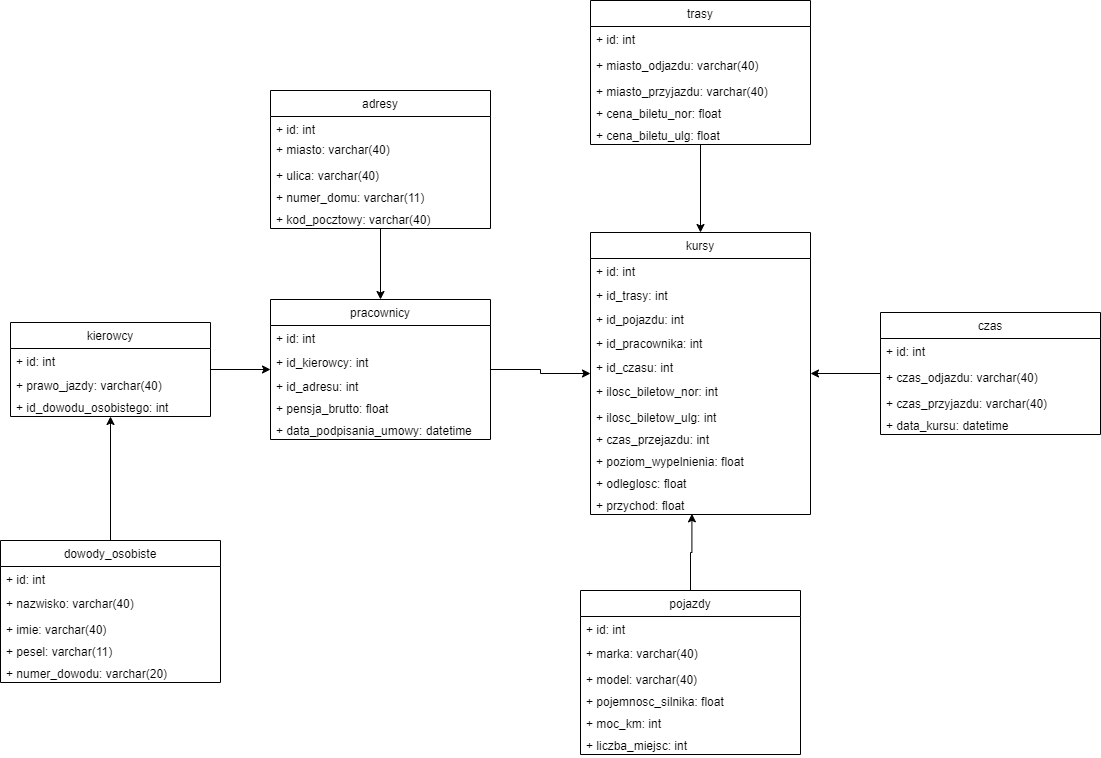
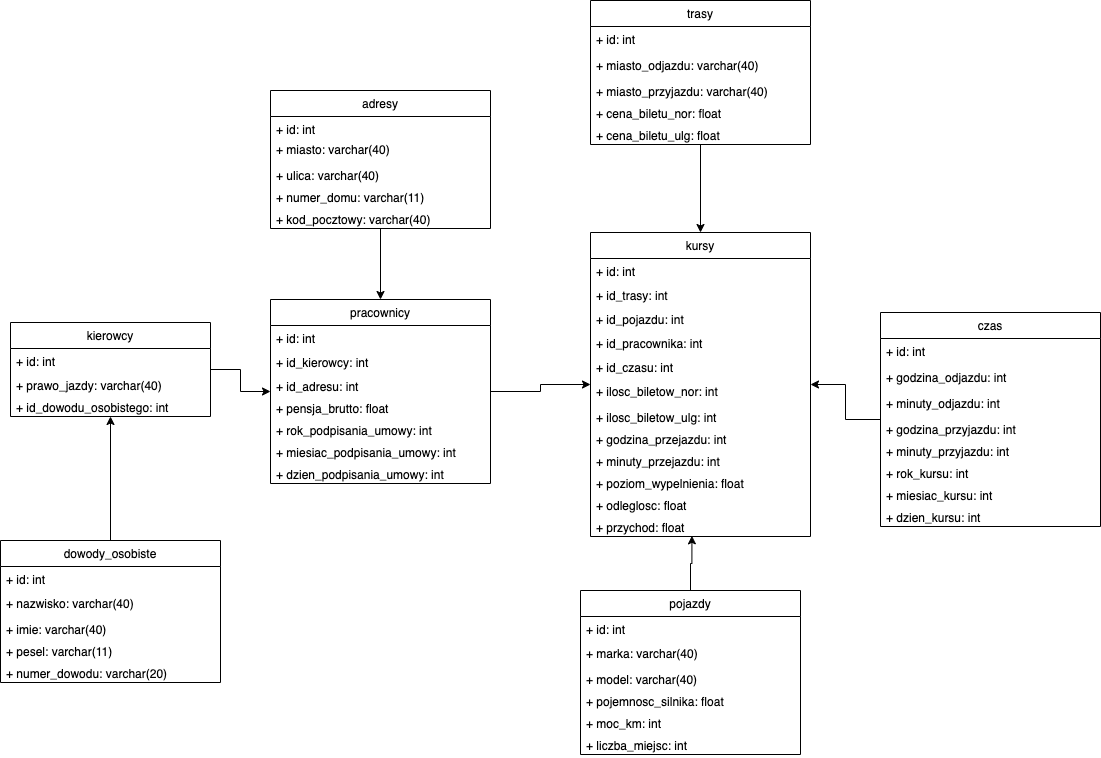
update

diff --git a/new/project/generator/src/models/courses.generate.js b/new/project/generator/src/models/courses.generate.js
@@ -16,19 +16,20 @@ const generateRandomCourses = async (count, roads, cars, employees, times) => {
         const fillLevel = (countAdultTicket + countNormalTicker) / car.countPlace;
         ////////////
         const time = times[getRandIntNumberFromRange(0, times.length)];
-        const start = moment.utc(time.timeStart, 'HH:mm'); // NOT
-        const end = moment.utc(time.timeEnd, 'HH:mm'); // NOT
-        if (end.isBefore(start)) end.add(1, 'day'); // NOT
-        const d = moment.duration(end.diff(start)); // NOT
-        d.subtract(30, 'minutes'); // NOT
-        const timeRoad = moment.utc(+d).format('H:mm');
+        let hours;
+        let minutes;
+        minutes = time.timeEndMinutes - time.timeStartMinutes;
+        if(minutes < 0){
+            hours = time.timeEndHour - time.timeStartHour - 1;
+            minutes += 60;
+        }else {
+            hours = time.timeEndHour - time.timeStartHour;
+        }
         /////////////////
         const priceAdult = countAdultTicket * road.priceAdult;
         const priceNormal = countNormalTicker * road.priceNormal;
 
         ///////
-        const hours = moment(timeRoad, 'H:mm').hours();
-        const minutes = moment(timeRoad, 'H:mm').minutes();
         const seconds = hours * 3600 + minutes * 60;
         const roadLength = (20 * seconds) / 1000;
 
@@ -40,7 +41,8 @@ const generateRandomCourses = async (count, roads, cars, employees, times) => {
             timeID: time.id,
             countAdultTicket,
             countNormalTicker,
-            timeRoad,
+            timeRoadHours: hours,
+            timeRoadMinutes: minutes,
             fillLevel,
             roadLength,
             salary: priceAdult + priceNormal,
@@ -57,7 +59,8 @@ const headers = [
     { id: 'timeID', title: 'id_czasu' },
     { id: 'countAdultTicket', title: 'ilosc_biletow_nor' },
     { id: 'countNormalTicker', title: 'ilosc_biletow_ulg' },
-    { id: 'timeRoad', title: 'czas_przejazdu' },
+    { id: 'timeRoadHours', title: 'godzina_przejazdu' },
+    { id: 'timeRoadMinutes', title: 'minuty_przejazdu' },
     { id: 'fillLevel', title: 'poziom_wypelnienia' },
     { id: 'roadLength', title: 'odleglosc' },
     { id: 'salary', title: 'przychod' },

diff --git a/new/project/generator/src/models/time.generate.js b/new/project/generator/src/models/time.generate.js
@@ -11,15 +11,13 @@ const generateRandomTimes = async (count) => {
         const startDate = getRandomDate(new Date(2020, 0, 1), new Date(Date.now()));
         times.push({
             id: i + 1,
-            timeStart: `${getRandIntNumberFromRange(
-                10,
-                17,
-            )}:${getRandIntNumberFromRange(0, 60)}`,
-            timeEnd: `${getRandIntNumberFromRange(
-                17,
-                24,
-            )}:${getRandIntNumberFromRange(0, 60)}`,
-            date: moment(startDate).format('YYYY-MM-DD'),
+            timeStartHour: getRandIntNumberFromRange(10, 17),
+            timeStartMinutes: getRandIntNumberFromRange(0, 60),
+            timeEndHour: getRandIntNumberFromRange(17, 24),
+            timeEndMinutes: getRandIntNumberFromRange(0, 60),
+            year: startDate.getFullYear(),
+            month: startDate.getMonth() + 1,
+            day: startDate.getDate(),
         });
     }
     return times;
@@ -27,9 +25,13 @@ const generateRandomTimes = async (count) => {
 
 const headers = [
     { id: 'id', title: 'id' },
-    { id: 'timeStart', title: 'czas_odjazdu' },
-    { id: 'timeEnd', title: 'czas_przyjazdu' },
-    { id: 'date', title: 'data_kursu' },
+    { id: 'timeStartHour', title: 'godzina_odjazdu' },
+    { id: 'timeStartMinutes', title: 'minuty_odjazdu' },
+    { id: 'timeEndHour', title: 'godzina_przyjazdu' },
+    { id: 'timeEndMinutes', title: 'minuty_przyjazdu' },
+    { id: 'year', title: 'rok_kursu' },
+    { id: 'month', title: 'miesiac_kursu' },
+    { id: 'day', title: 'dzien_kursu' },
 ];
 
 const createCsvForTimes = async (times) => {

diff --git a/new/project/generator/src/models/employees.generate.js b/new/project/generator/src/models/employees.generate.js
@@ -14,7 +14,9 @@ const generateRandomEmployees = async (drivers, addresses) => {
             driverID: drivers[i].id,
             addressID: addresses[getRandIntNumberFromRange(0, addresses.length)].id,
             salary: getRandIntNumberFromRange(2000, 3500),
-            date: moment(startDate).format('YYYY-MM-DD HH:mm:ss'),
+            year: startDate.getFullYear(),
+            month: startDate.getMonth() + 1,
+            day: startDate.getDate(),
         });
     }
     return employees;
@@ -25,7 +27,9 @@ const headers = [
     { id: 'driverID', title: 'id_kierowcy' },
     { id: 'addressID', title: 'id_adresu' },
     { id: 'salary', title: 'pensja_netto' },
-    { id: 'date', title: 'data_podpisania_umowy' },
+    { id: 'year', title: 'rok_podpisania_umowy' },
+    { id: 'month', title: 'miesiac_podpisania_umowy' },
+    { id: 'day', title: 'dzien_podpisania_umowy' },
 ];
 
 const createCsvForEmployees = async (employees) => {
